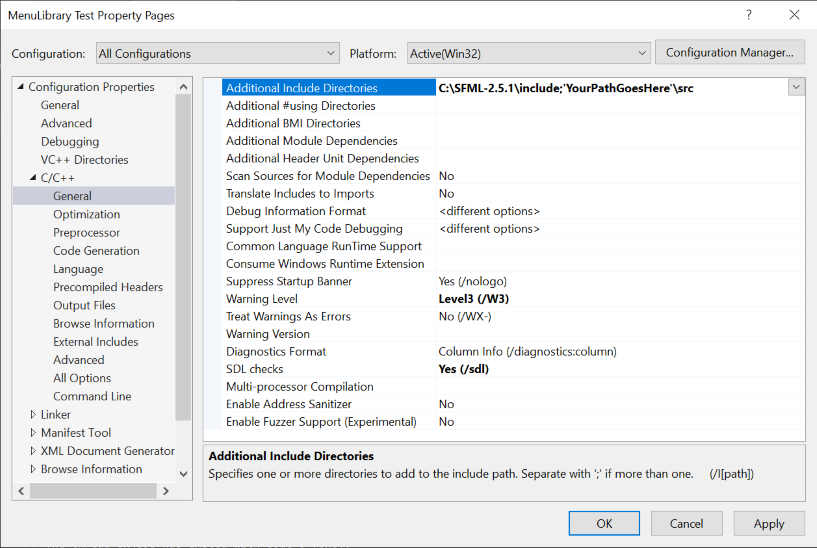
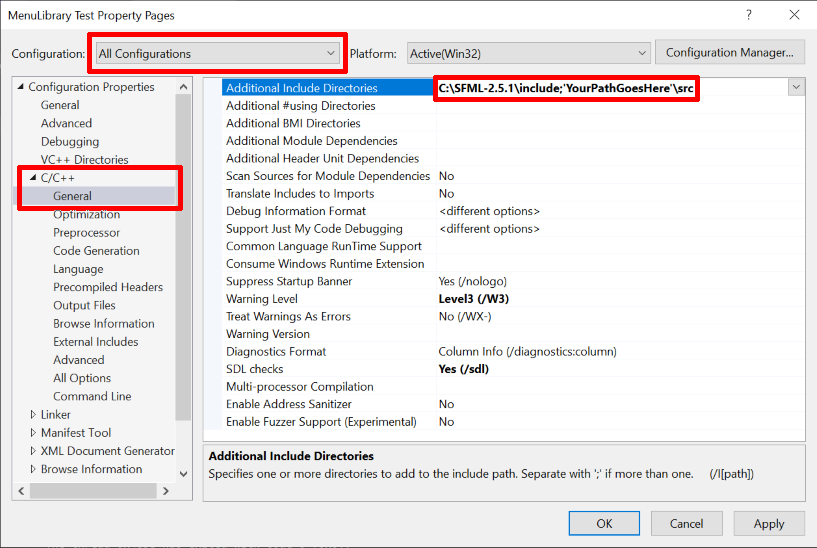
Update installation instructions

diff --git a/README.md b/README.md
@@ -24,14 +24,17 @@ Your project must be configured to use SFML. If your project is not yet configur
 
 ### Visual Studio
 
-You will want to first clone the repo and then copy the  path to this directory.
+The first step is to clone the repo and then copy the path to this directory.
 
-Configuring your project to use this menu library is very similar to the process for configuring it for SFML, so it is recommended you consult [SFML's setup page]((https://www.sfml-dev.org/tutorials/2.5/start-vc.php)) for help.
+If your Visual Studio project is not yet configured to use SFML, follow the [steps on SFML's site](((https://www.sfml-dev.org/tutorials/2.5/start-vc.php))) to either create a new SFML project or configure your existing project.
 
-#### Steps (under project settings):
+If your project is already configured to use SFML, it is still recommended that you review the [project configuration process](((https://www.sfml-dev.org/tutorials/2.5/start-vc.php))), as configuring your project to use this menu library is a similar process.
 
-* Under additional include directories add ";
-'YourPathToTheRepoGoesHere'\src"
+#### Steps:
+
+* Go to project properties
+
+* Under additional include directories add ";'YourPathToTheRepoGoesHere'\src"
 
 ![image shows where to append necessary directory](docs/images/img1.png)
 
